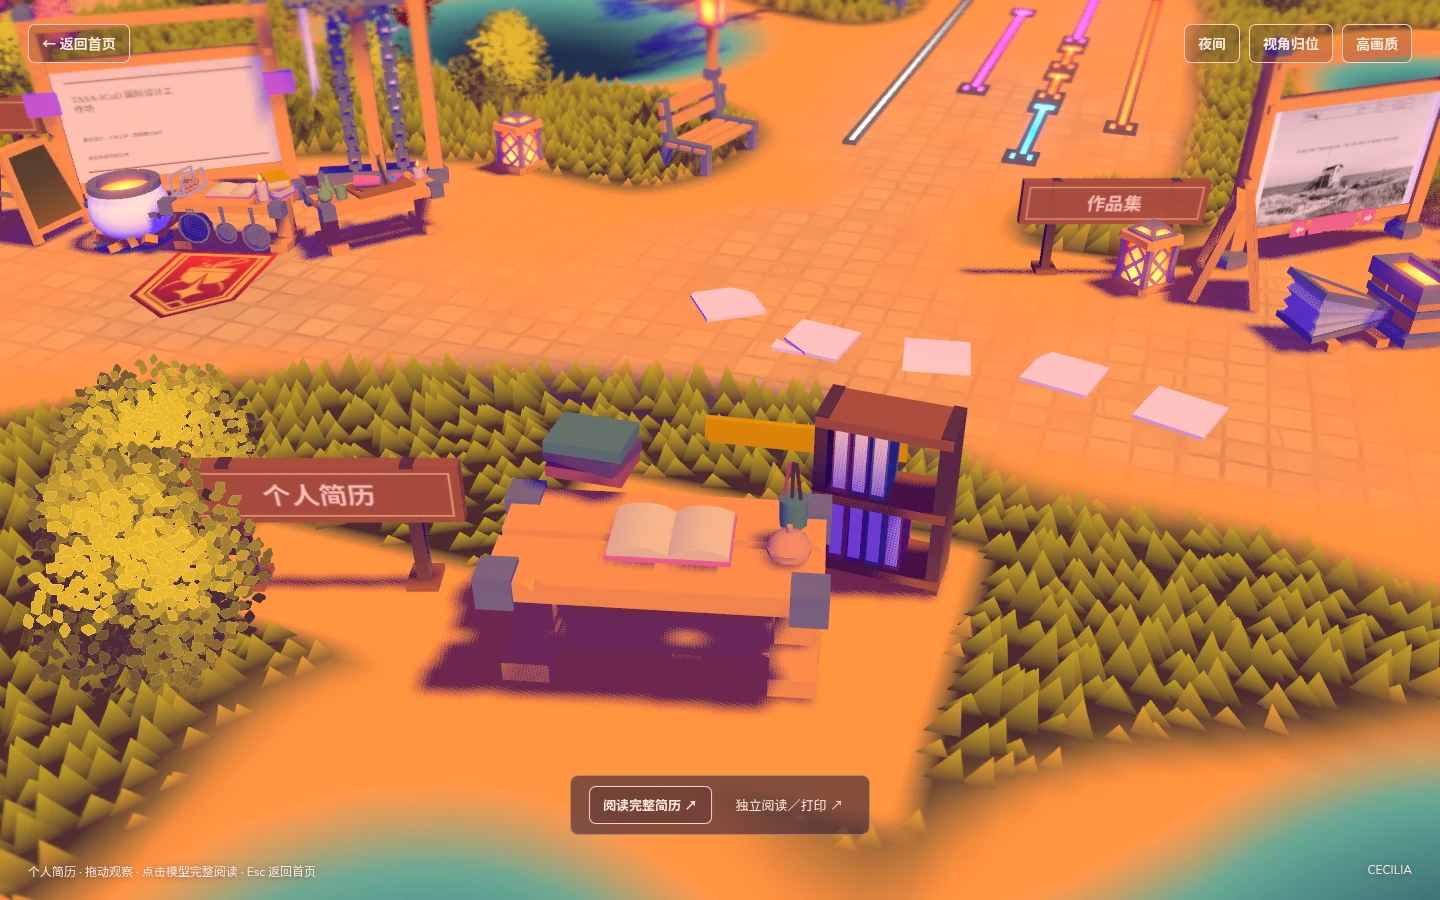
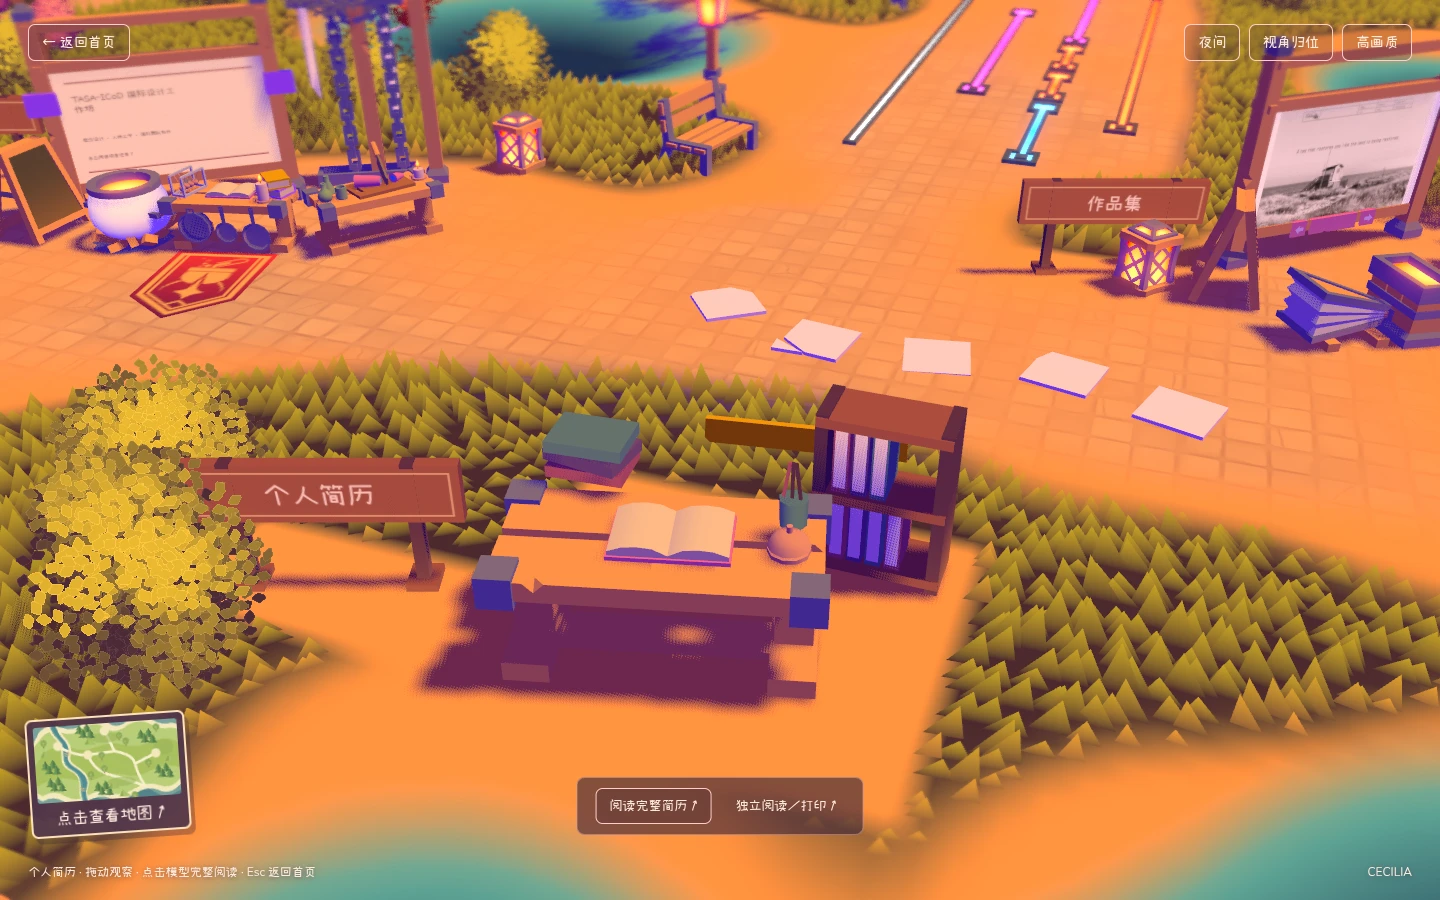
Polish and verify pixel-name entry, game-device interactions and centered illustrated map

diff --git a/experiments/bruno-projects/src/hub.css b/experiments/bruno-projects/src/hub.css
@@ -130,7 +130,7 @@ header > div {
 #map-trigger > span { display: block; margin-top: 8px; font-size: 16px; }
 #world-map {
   margin: auto;
-  height: auto;
+  height: fit-content;
   width: min(1060px, calc(100vw - 60px));
   max-height: calc(100dvh - 56px);
   padding: 22px 26px 14px;
@@ -171,6 +171,7 @@ header > div {
 .map-location:hover span,.map-location[aria-current="true"] span { background:var(--pin); color:#fff3d6; }
 .map-you { position:absolute; left:75.5%; top:79.5%; transform:translate(-50%,-50%); font-size:16px; white-space:nowrap; color:#8b5657; text-align:center; }
 .map-you span { display:block; font-size:28px; filter:drop-shadow(0 3px 0 #fff3d6); }
+.map-you b { display:block; padding:3px 9px; border-radius:14px; background:#fff3d6e8; font-weight:400; }
 .map-caption { margin:12px 3px 2px; font-size:17px; display:flex; justify-content:space-between; gap:12px; }
 .map-caption > span { color:#9b8476; font-size:13px; }
 @media(prefers-reduced-motion:no-preference) {

diff --git a/experiments/bruno-projects/src/hub.js b/experiments/bruno-projects/src/hub.js
@@ -499,6 +499,7 @@ try {
       hits.sort((a, b) => a.distance - b.distance);
       devices.hover(hits[0]?.root);
       if (hits[0]) return hits[0].root;
+      if (kioskFace && ray.intersectObject(kioskFace, false).length) return "map";
     }
     const hits = pickables.flatMap((p) =>
       ray
@@ -553,7 +554,8 @@ try {
     pointers.delete(e.pointerId);
     if (pointers.size) return;
     if (!drag && !pinched && pressed) {
-      if (pressed.isObject3D) devices.hit(pressed);
+      if (pressed === "map") navigationMap.open();
+      else if (pressed.isObject3D) devices.hit(pressed);
       else if (place === pressed) openCurrent();
       else go(pressed);
     }
@@ -642,6 +644,7 @@ try {
     world,
     stations,
     devices,
+    kioskFace,
     navigationMap,
     identity,
     placements: fixtures.placements,

diff --git a/experiments/bruno-projects/src/scene-fixtures.js b/experiments/bruno-projects/src/scene-fixtures.js
@@ -80,6 +80,7 @@ export function createFixtures(world) {
       ),
     );
     root.updateWorldMatrix(true, true);
+    best.groundedY = new T.Box3().setFromObject(root).min.y;
     surface.clearGrass(best.x, best.z, width + 0.6, depth + 0.6);
     root.userData.parcel = best;
     placements.push({ name: root.name, ...best });
@@ -302,7 +303,7 @@ export function createFixtures(world) {
     const definitions = [
       ["gamepadPhysicalDynamic001", "gamepad", 45, 43.5, 1.12],
       ["phonePhysicalDynamic001", "joystick", 49.7, 42.8, 1],
-      ["gizmoPhysicalDynamic", "gizmo", 39.5, 44.2, .85],
+      ["gizmoPhysicalDynamic", "gizmo", 39.2, 46, .85],
     ];
     for (const [sourceName, kind, x, z, scale] of definitions) {
       const native = source.getObjectByName(sourceName);

diff --git a/experiments/bruno-projects/src/world-map.js b/experiments/bruno-projects/src/world-map.js
@@ -26,7 +26,7 @@ export function createWorldMap(go) {
   function open() {
     content.querySelectorAll("button").forEach(b => b.setAttribute("aria-current", String(document.body.dataset.place === b.dataset.destination)));
     const you = dialog.querySelector(".map-you");
-    you.innerHTML = '<span>◆</span>姓名入口' + (document.body.dataset.place === "home" ? ' · 你在这里' : '');
+    you.innerHTML = '<span>◆</span><b>姓名入口' + (document.body.dataset.place === "home" ? ' · 你在这里' : '') + '</b>';
     dialog.showModal();
   }
   function close() { if (dialog.open) dialog.close(); }

diff --git a/experiments/bruno-projects/src/create-world.js b/experiments/bruno-projects/src/create-world.js
@@ -357,6 +357,11 @@ export async function createWorld(canvas, progress) {
   ])
     for (const child of [...game.resources[key].scene.children])
       if (key === "sceneryModel" || near(child)) {
+        // Keep the native entrance lamp, but out of the new name's silhouette.
+        if (key === "poleLightsModel" && child.name === "poleLight001") {
+          child.position.x = 35.5;
+          child.position.z = 38.5;
+        }
         if (
           key === "sceneryModel" &&
           /^basaltRocks/.test(child.name) &&

diff --git a/experiments/bruno-projects/hub.html b/experiments/bruno-projects/hub.html
@@ -46,7 +46,7 @@
       <div class="map-sheet">
         <img src="/ui/cecilia-map.svg" alt="有道路、河流和树林的导航地图" />
         <div id="map-locations"></div>
-        <div class="map-you"><span>◆</span>姓名入口 · 你在这里</div>
+        <div class="map-you"><span>◆</span><b>姓名入口 · 你在这里</b></div>
       </div>
       <p class="map-caption">点一个地点，去看看吧。 <span>M 打开／收起 · Esc 关闭</span></p>
     </dialog>

diff --git a/WEBSITE_WORLD_PROGRESS.md b/WEBSITE_WORLD_PROGRESS.md
@@ -10,7 +10,12 @@
 - 已确认：姓名「王钰欣 / CECILIA」同一行、实际像素立方体拼字、浅色正面／紫色侧面阴影；场景木牌与导航中文恢复小赖字体。简历和作品内部字体、文字与排版不动。
 - 撤掉四宫格实体地图；改为小地图缩略触发器，点击后居中展开扁平插画地图。只有四个分类，用各区域模型的扁平图标，选择后沿用既有分类逻辑。
 - 参考案例原 landing 镜头参数（theta=.25π、phi=.27π）和原生道具；手柄、摇杆及 gizmo 移到姓名前方，点击有小动作，不增加跳转，不引入车或驾驶系统。
-- 制作中：尚未通过最终真实浏览器画面／交互检查，尚未发布。源代码与本文件保存阶段进度，不能把旧版测试视为本轮完成。
+- 阶段检查点已保存为 fa73233。默认镜头以姓名与入口设备为主体；原路灯移出姓名轮廓，gizmo 移到左前方，避免遮字。地形与实际模型底部均检查，原场景入口铺装广场允许放置入口模型，分类桌／邮筒仍不得占用通行路面。
+- 本轮已通过 `design-world.cjs`、`entry-preview.cjs`、`portfolio-routing.cjs`、`bruno-animation.cjs`。包括真实模型点击且不跳转、摇杆／按键动作、原生地图牌与缩略图打开、地图居中、四分类、手机目标尺寸、简历原字体和 PDF、联系方式、昼夜、默认渲染器及 WebGL，无页面错误／404。
+- 真实截图保存为 public/review/home*、navigation-map*；手机弹窗已修复旧全屏阅读样式导致的底部空白。外层小赖字体新增子集补齐地图新用字，原字体资产和作品／简历内部源码不改。
+- 最终本地构建通过，准备发布本轮入口预览；GitHub Pages 部署成功后再确认上线。未扩展改造其余区域。
+
+### 上一轮入口方案（已被本轮替代）
 
 - 用户指定首页姓名为「王钰欣 / CECILIA」，同一行，不再上下叠放。首帧为 landing 近景，设置可点击的实体四入口地图；全景只作主动选择。
 - 分类悬空立体字全部取消，改为有立柱支撑的木牌。本轮外层先用简洁无衬线（用户异步确认），不使用麦圆体或新的手写字；具体字体以后再选。

diff --git a/experiments/bruno-projects/public/review/README.md b/experiments/bruno-projects/public/review/README.md
@@ -1,6 +1,6 @@
 # 真实浏览器渲染截图
 
-由 `tests/bruno-preview.cjs` 与 `tests/design-world.cjs` 在实际运行网页后截取并转存为 WebP。
+由 `tests/bruno-preview.cjs`、`tests/design-world.cjs` 与 `tests/entry-preview.cjs` 在实际运行网页后截取并转存为 WebP。
 
 - `day.webp`：原版 day 光照预设下的桌面近景。
 - `night.webp`：原版 night 光照预设下的桌面近景。
@@ -8,7 +8,8 @@
 - `home.webp` / `home-night.webp` / `home-mobile.webp`：统一场景的日间、夜间与手机首页。
 - `resume-station.webp` / `resume-reading.webp`：三维简历阅读桌与实际简历正文。
 - `other-station.webp` / `contact-station.webp`：实验室项目入口与联系方式。
+- `navigation-map.webp` / `navigation-map-mobile.webp`：桌面、手机实际展开的导航地图。
 
-本轮 `home*`、`resume*`、`contact-station` 展示入口近景、实体入口地图、简洁无衬线标牌与落地道具；简历正文恢复原系统字体。
+本轮 `home*` 展示像素积木姓名和原生游戏设备的入口近景；`navigation-map*` 展示实际打开的居中插画地图，导航和木牌使用小赖字体。简历正文保留原系统字体，作品内部不改。
 
 未使用图片生成器。这些文件用于对照美术方向，不替代可操作的 3D 页面。来源及许可见上级 `BRUNO-LICENSE.txt`、`THIRD-PARTY-NOTICES.txt`。
